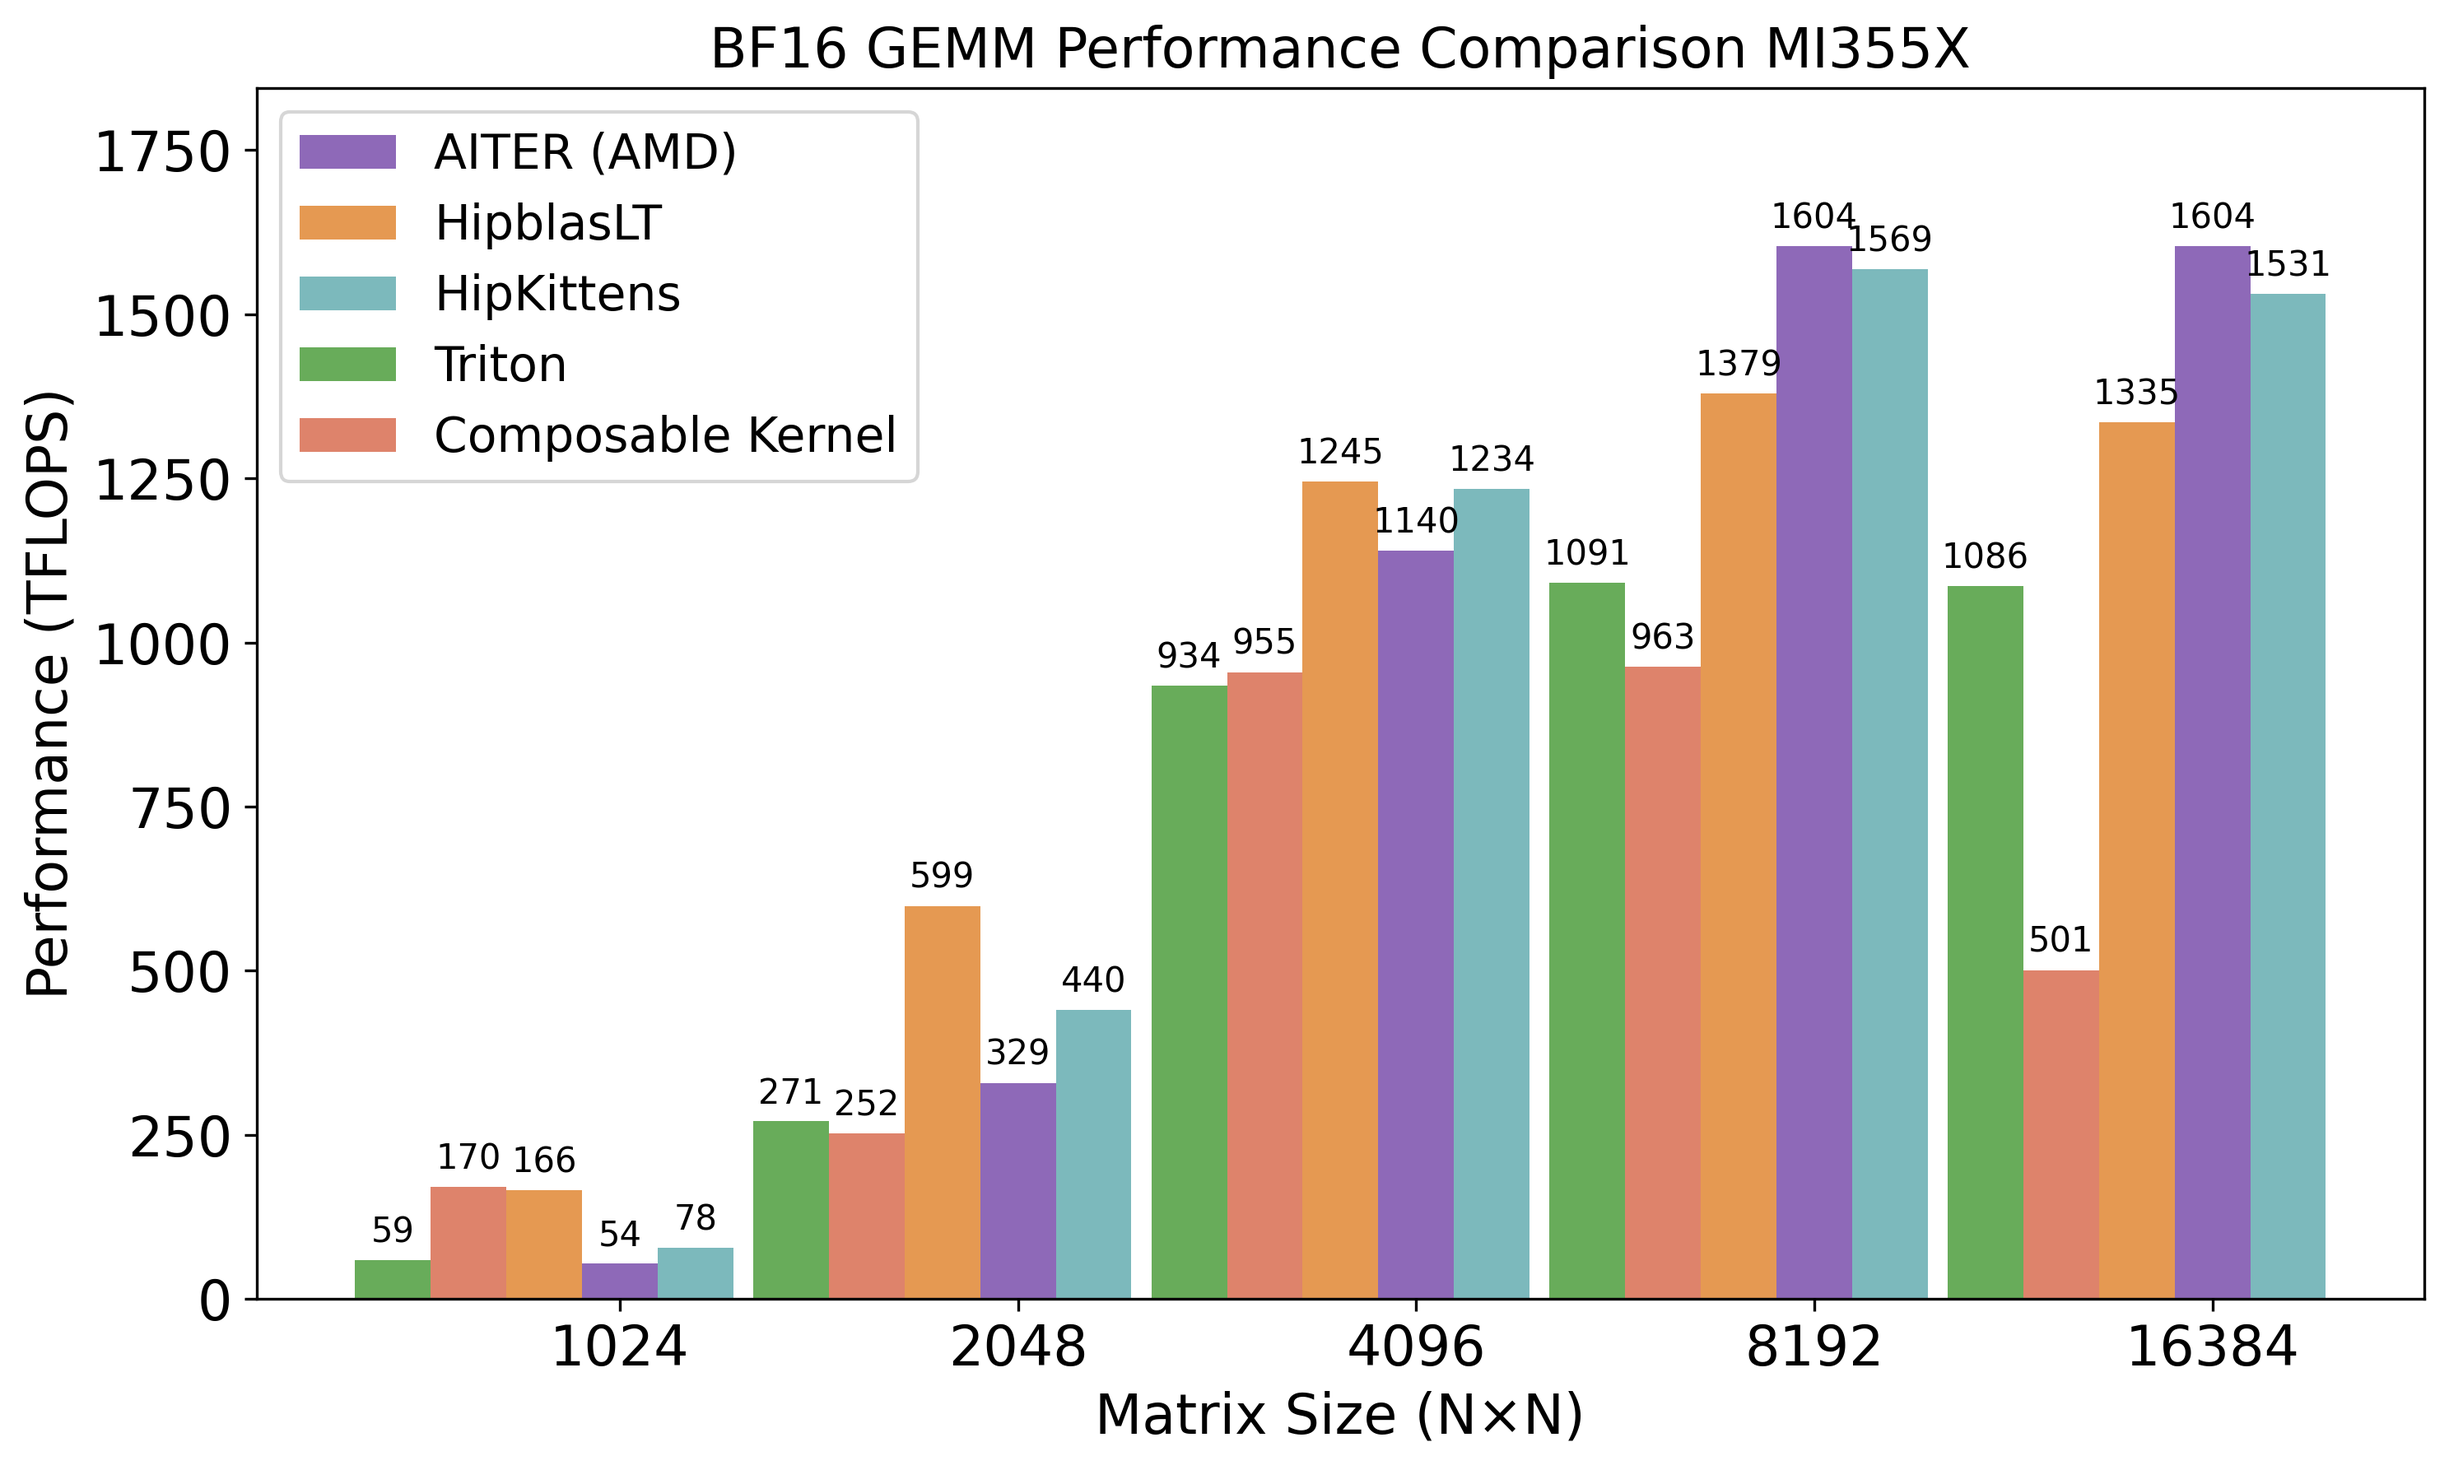
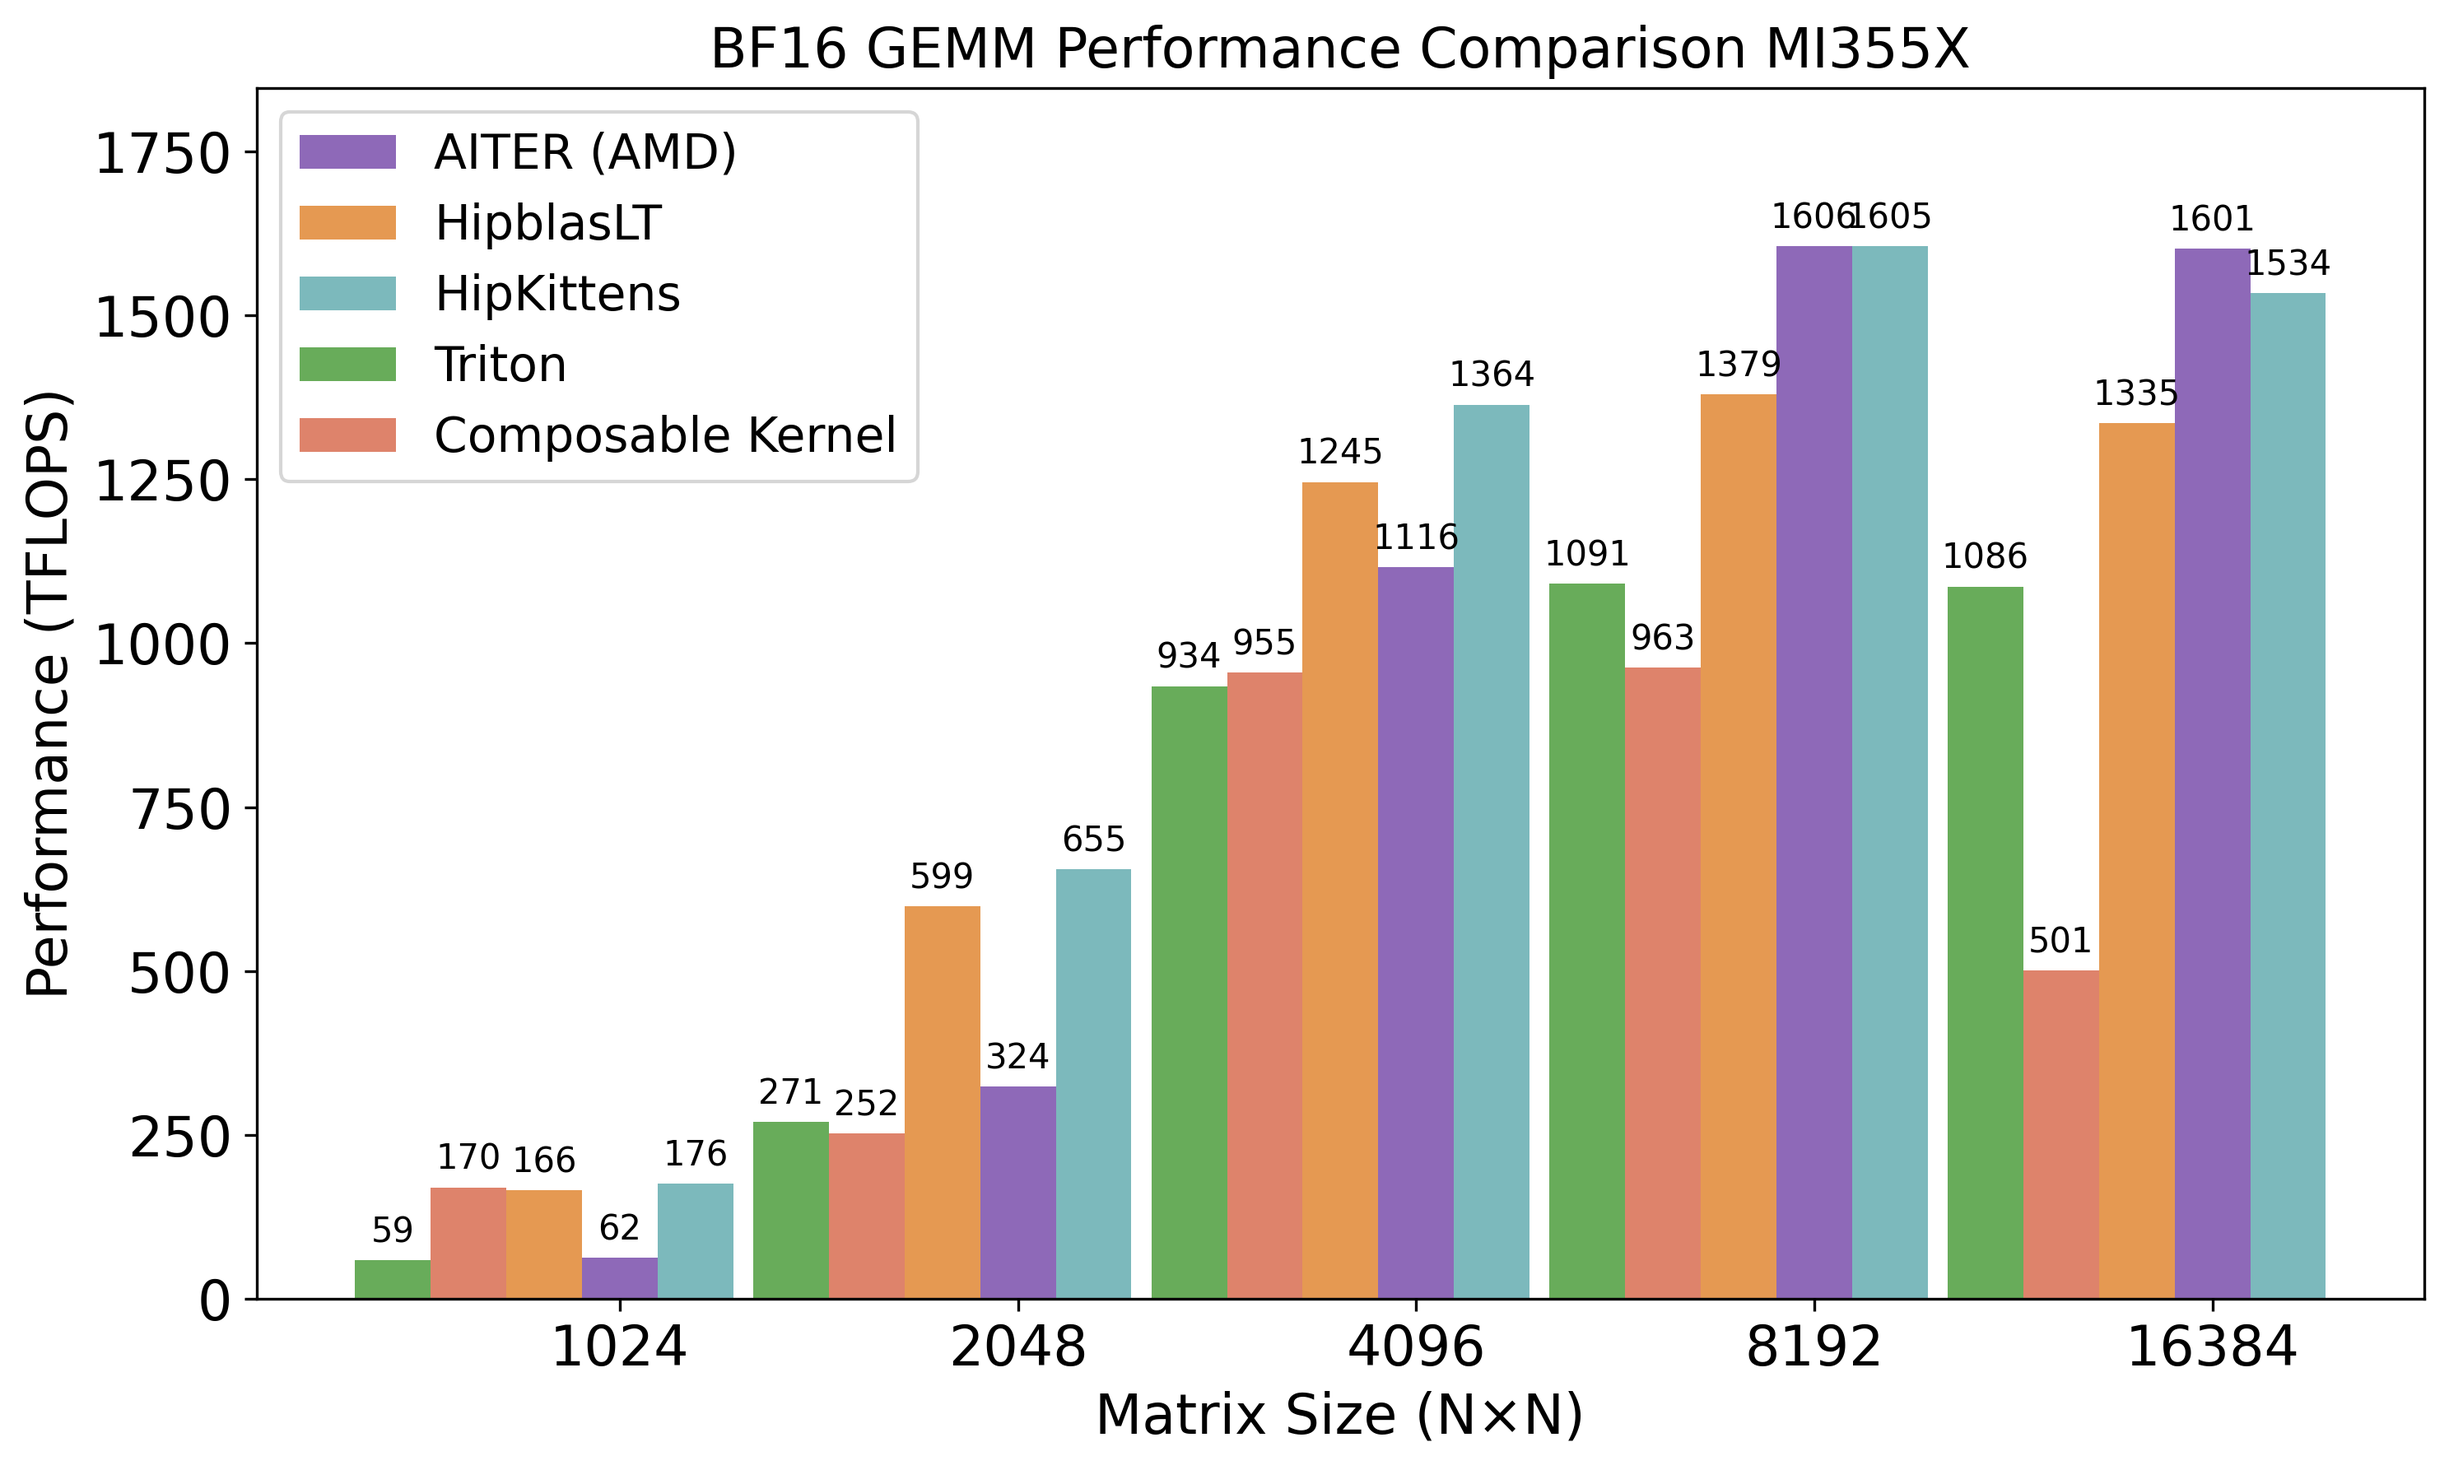
updated gemm analysis

diff --git a/analysis/bf16_gemm/mi350x/kernel_1024.cpp b/analysis/bf16_gemm/mi350x/kernel_1024.cpp
@@ -30,6 +30,7 @@ struct micro_globals {
     _gl_A a;
     _gl_B b;
     _gl_C c;
+    hipStream_t stream;
     dim3 grid()  { return dim3((N / BLOCK_SIZE) * (M / BLOCK_SIZE)); } 
     dim3 block() { return dim3(NUM_THREADS); } 
     size_t dynamic_shared_memory() { return MAX_SHARED_MEMORY; } 
@@ -258,8 +259,7 @@ void micro_tk(const micro_globals g) {
 void dispatch_micro(micro_globals g) {
     unsigned long mem_size = g.dynamic_shared_memory();
     hipFuncSetAttribute((void*)micro_tk, hipFuncAttributeMaxDynamicSharedMemorySize, mem_size);
-    micro_tk<<<g.grid(), g.block(), mem_size>>>(g);
-    hipDeviceSynchronize();
+    micro_tk<<<g.grid(), g.block(), mem_size, g.stream>>>(g);
 }
 
 PYBIND11_MODULE(tk_kernel, m) {

diff --git a/analysis/bf16_gemm/mi350x/kernel_16384.cpp b/analysis/bf16_gemm/mi350x/kernel_16384.cpp
@@ -30,6 +30,7 @@ struct micro_globals {
     _gl_A a;
     _gl_B b;
     _gl_C c;
+    hipStream_t stream;
     dim3 grid()  { return dim3((N / BLOCK_SIZE) * (M / BLOCK_SIZE)); } 
     dim3 block() { return dim3(NUM_THREADS); } 
     size_t dynamic_shared_memory() { return MAX_SHARED_MEMORY; } 
@@ -259,8 +260,7 @@ void micro_tk(const micro_globals g) {
 void dispatch_micro(micro_globals g) {
     unsigned long mem_size = g.dynamic_shared_memory();
     hipFuncSetAttribute((void*)micro_tk, hipFuncAttributeMaxDynamicSharedMemorySize, mem_size);
-    micro_tk<<<g.grid(), g.block(), mem_size>>>(g);
-    hipDeviceSynchronize();
+    micro_tk<<<g.grid(), g.block(), mem_size, g.stream>>>(g);
 }
 
 PYBIND11_MODULE(tk_kernel, m) {

diff --git a/analysis/bf16_gemm/mi350x/kernel_2048.cpp b/analysis/bf16_gemm/mi350x/kernel_2048.cpp
@@ -30,6 +30,7 @@ struct micro_globals {
     _gl_A a;
     _gl_B b;
     _gl_C c;
+    hipStream_t stream;
     dim3 grid()  { return dim3((N / BLOCK_SIZE) * (M / BLOCK_SIZE)); } 
     dim3 block() { return dim3(NUM_THREADS); } 
     size_t dynamic_shared_memory() { return MAX_SHARED_MEMORY; } 
@@ -258,8 +259,7 @@ void micro_tk(const micro_globals g) {
 void dispatch_micro(micro_globals g) {
     unsigned long mem_size = g.dynamic_shared_memory();
     hipFuncSetAttribute((void*)micro_tk, hipFuncAttributeMaxDynamicSharedMemorySize, mem_size);
-    micro_tk<<<g.grid(), g.block(), mem_size>>>(g);
-    hipDeviceSynchronize();
+    micro_tk<<<g.grid(), g.block(), mem_size, g.stream>>>(g);
 }
 
 PYBIND11_MODULE(tk_kernel, m) {

diff --git a/analysis/bf16_gemm/mi350x/kernel_4096.cpp b/analysis/bf16_gemm/mi350x/kernel_4096.cpp
@@ -30,6 +30,7 @@ struct micro_globals {
     _gl_A a;
     _gl_B b;
     _gl_C c;
+    hipStream_t stream;
     dim3 grid()  { return dim3((N / BLOCK_SIZE) * (M / BLOCK_SIZE)); } 
     dim3 block() { return dim3(NUM_THREADS); } 
     size_t dynamic_shared_memory() { return MAX_SHARED_MEMORY; } 
@@ -261,8 +262,7 @@ void micro_tk(const micro_globals g) {
 void dispatch_micro(micro_globals g) {
     unsigned long mem_size = g.dynamic_shared_memory();
     hipFuncSetAttribute((void*)micro_tk, hipFuncAttributeMaxDynamicSharedMemorySize, mem_size);
-    micro_tk<<<g.grid(), g.block(), mem_size>>>(g);
-    hipDeviceSynchronize();
+    micro_tk<<<g.grid(), g.block(), mem_size, g.stream>>>(g);
 }
 
 PYBIND11_MODULE(tk_kernel, m) {

diff --git a/analysis/bf16_gemm/mi350x/kernel_8192.cpp b/analysis/bf16_gemm/mi350x/kernel_8192.cpp
@@ -30,6 +30,7 @@ struct micro_globals {
     _gl_A a;
     _gl_B b;
     _gl_C c;
+    hipStream_t stream;
     dim3 grid()  { return dim3((N / BLOCK_SIZE) * (M / BLOCK_SIZE)); } 
     dim3 block() { return dim3(NUM_THREADS); } 
     size_t dynamic_shared_memory() { return MAX_SHARED_MEMORY; } 
@@ -261,8 +262,7 @@ void micro_tk(const micro_globals g) {
 void dispatch_micro(micro_globals g) {
     unsigned long mem_size = g.dynamic_shared_memory();
     hipFuncSetAttribute((void*)micro_tk, hipFuncAttributeMaxDynamicSharedMemorySize, mem_size);
-    micro_tk<<<g.grid(), g.block(), mem_size>>>(g);
-    hipDeviceSynchronize();
+    micro_tk<<<g.grid(), g.block(), mem_size, g.stream>>>(g);
 }
 
 PYBIND11_MODULE(tk_kernel, m) {
